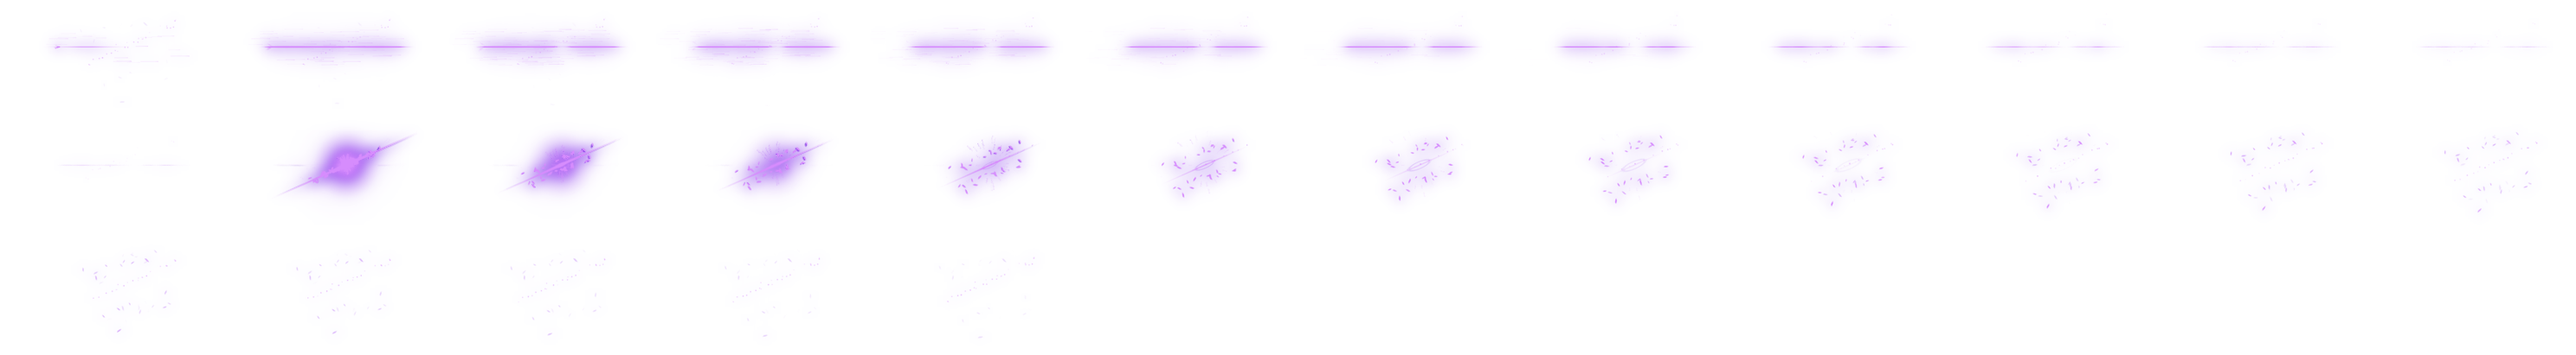
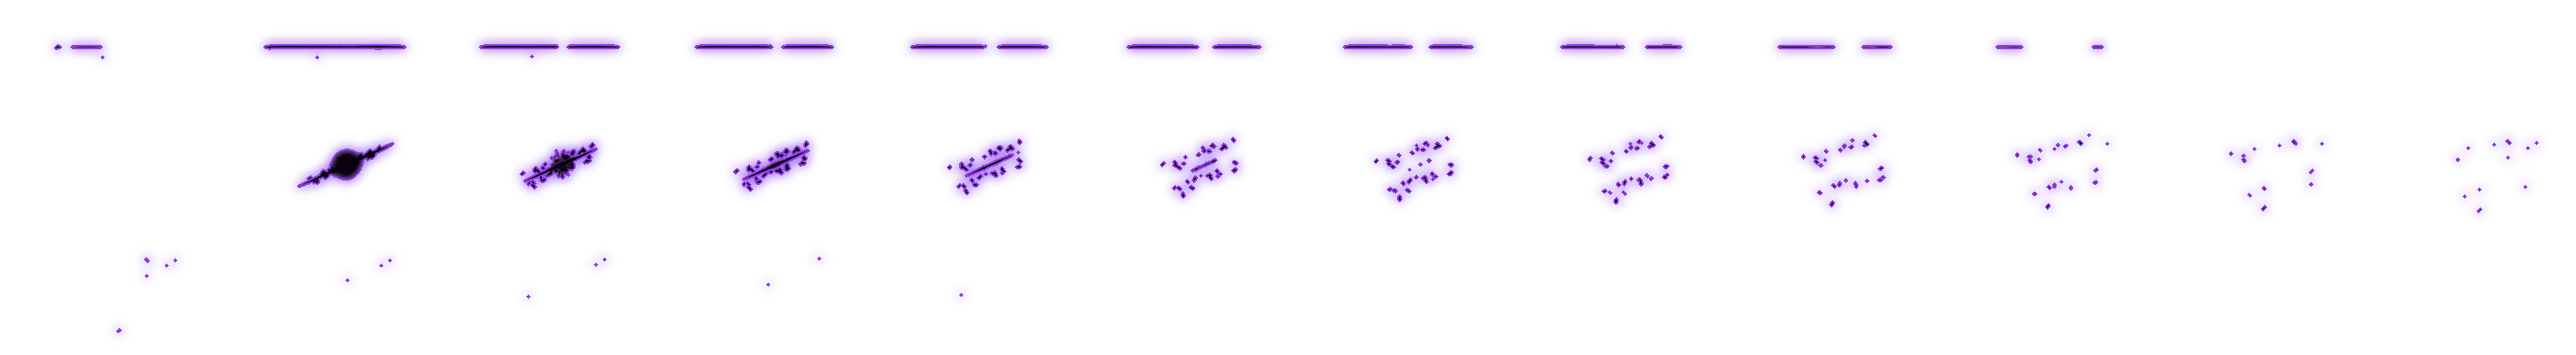
Rogue skill 4 look: Dash Strike black with the purple rim too (same tone as the X)

diff --git a/tools/art/rogue_dash_fx.py b/tools/art/rogue_dash_fx.py
@@ -1,6 +1,6 @@
 # The rogue's new skill 4 look (owner 2026-11-09, approved "เออสวย" on the demo GIF): six Dash Strike dashes in a deep
-# glowing violet (colours sampled from the owner's neon samurai picture), each with Dash Strike's own hit flash, and the
-# closing X (twin fang) black from its first frame with a neon purple rim. Makes the two effect sheets:
+# black with a neon purple rim (colours from the owner's neon samurai picture), each with Dash Strike's own hit flash,
+# and the closing X (twin fang) the same: black from its first frame with the purple rim; the monster's hit flash violet. Makes the two effect sheets:
 #   python tools/art/rogue_dash_fx.py   -> fx/pfx_dashstrike_v.png, fx/pfx_twinfang_k.png + their fx/manifest.json entries
 # Timing from the demo: one dash 0.2 s (the game's SK4.cut was 0.12), Dash Strike played at 20 fps (made at 30), she holds
 # the dash row's frame 6 with a violet glow until the X ends. Not in the game yet: the owner will say when.
@@ -40,5 +40,5 @@ def remake(src, dst, fn, pad):
     man[dst] = dict(m, w=W, h=H, ax=m['ax'] + pad, ay=m['ay'] + pad, src=m['src'] + ' (rogue skill 4 look, tools/art/rogue_dash_fx.py)')
     json.dump(man, open('fx/manifest.json', 'w'), separators=(',', ':')); print(dst, out.size)
 
-remake('pfx_dashstrike', 'pfx_dashstrike_v', lambda c: glowy(tint(c)), 14)
+remake('pfx_dashstrike', 'pfx_dashstrike_v', shadow_x, 14)   # owner "Dash Strike โทนเดียวกันได้ไหม": black + purple rim like the X (the glowing violet one was lambda c: glowy(tint(c)))
 remake('pfx_twinfang', 'pfx_twinfang_k', shadow_x, 10)

diff --git a/docs/action-game.md b/docs/action-game.md
@@ -300,8 +300,8 @@ phone) + attack + roll; about 8 skills per class to unlock up to level 50, the p
   picture each, 1536x1024, style = the swordsman sheet `refs/00_STYLE_hero.png`), Codex delivers on `codex/mobs` into
   `art/incoming/mobs/`.
 - **Rogue skill 4, new look approved, NOT in the game yet** (owner "เออสวย" on the demo, earlier "อย่าเพิ่งลงเกม เดี๋ยวบอก"):
-  six dashes along the same zigzag as now (`nextCut`), each one ParticleFX's Dash Strike in deep glowing violet
-  (`fx/pfx_dashstrike_v.png`: streak frames 0-11 along the dash, its own hit flash 13-28 on every monster), no
+  six dashes along the same zigzag as now (`nextCut`), each one ParticleFX's Dash Strike black with a neon purple rim like the X
+  (owner "Dash Strike โทนเดียวกันได้ไหม"; `fx/pfx_dashstrike_v.png`, the monster's hit flash violet: streak frames 0-11 along the dash, its own hit flash 13-28 on every monster), no
   thousand cuts, then the closing X = twin fang black from its first frame with a neon purple rim
   (`fx/pfx_twinfang_k.png`); colours sampled from the owner's neon samurai picture; one dash 0.2 s (SK4.cut is 0.12
   now), Dash Strike played at 20 fps; she holds the dash row's frame 6 with a violet glow until the X ends. Sheets made
